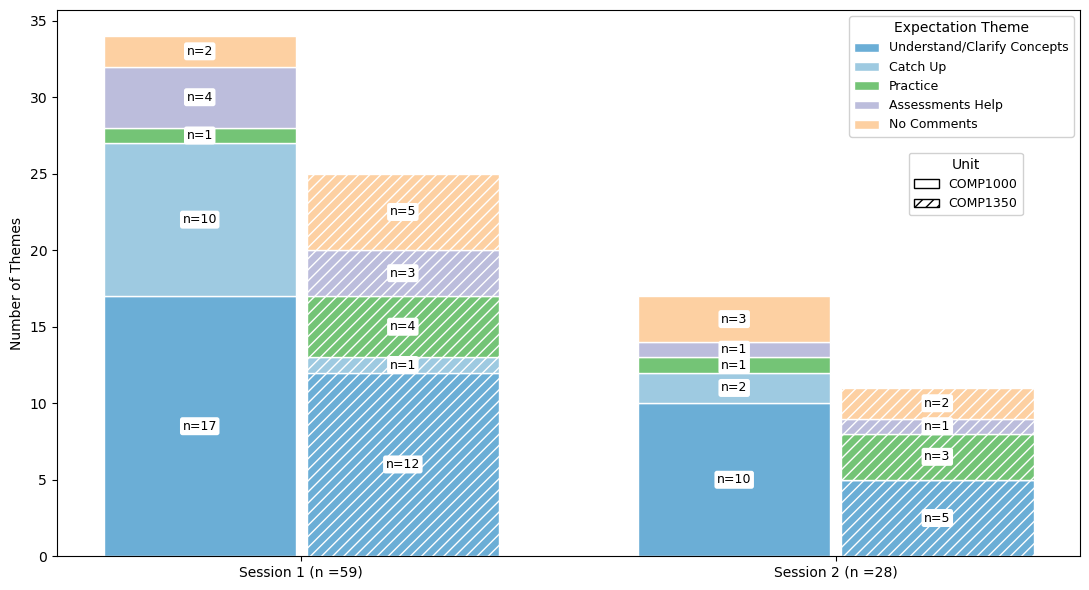
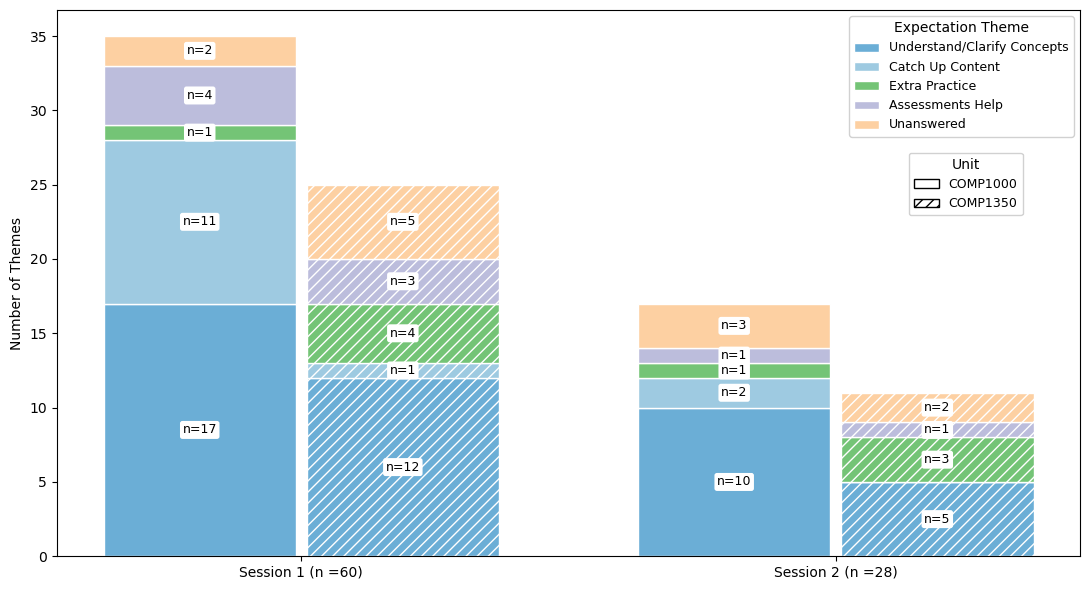
commit

diff --git a/RQ1.py b/RQ1.py
@@ -703,10 +703,10 @@ theme_cols = [
 ]
 theme_map = [
     "Understand/Clarify Concepts",
-    "Catch Up",
-    "Practice",
+    "Catch Up Content",
+    "Extra Practice",
     "Assessments Help",
-    "No Comments",
+    "Unanswered",
 ]
 theme_colors = ["#6baed6", "#9ecae1", "#74c476", "#bcbddc", "#fdd0a2"]
 
@@ -875,7 +875,7 @@ theme_map = [
     "Falling Behind",
     "Confidence/Anxiety-Related Motivation",
     "Other",
-    "No Comments",
+    "Unanswered",
 ]
 theme_colors = ["#6baed6", "#9ecae1", "#74c476", "#bcbddc", "#fdd0a2"]
 
@@ -1040,7 +1040,7 @@ theme_map = [
     "Learning Environment",
     "Learning Outcomes",
     "Suggestions for Improvement",
-    "No Comments",
+    "Unanswered",
 ]
 theme_colors = ["#6baed6", "#9ecae1", "#74c476", "#bcbddc", "#fdd0a2"]
 
@@ -1207,7 +1207,7 @@ theme_map = [
     "More Teaching Support",
     "Pace Adjustment",
     "Session Structure",
-    "No Comments",
+    "Unanswered",
 ]
 theme_colors = ["#6baed6", "#9ecae1", "#74c476", "#fdd0a2"]
 
